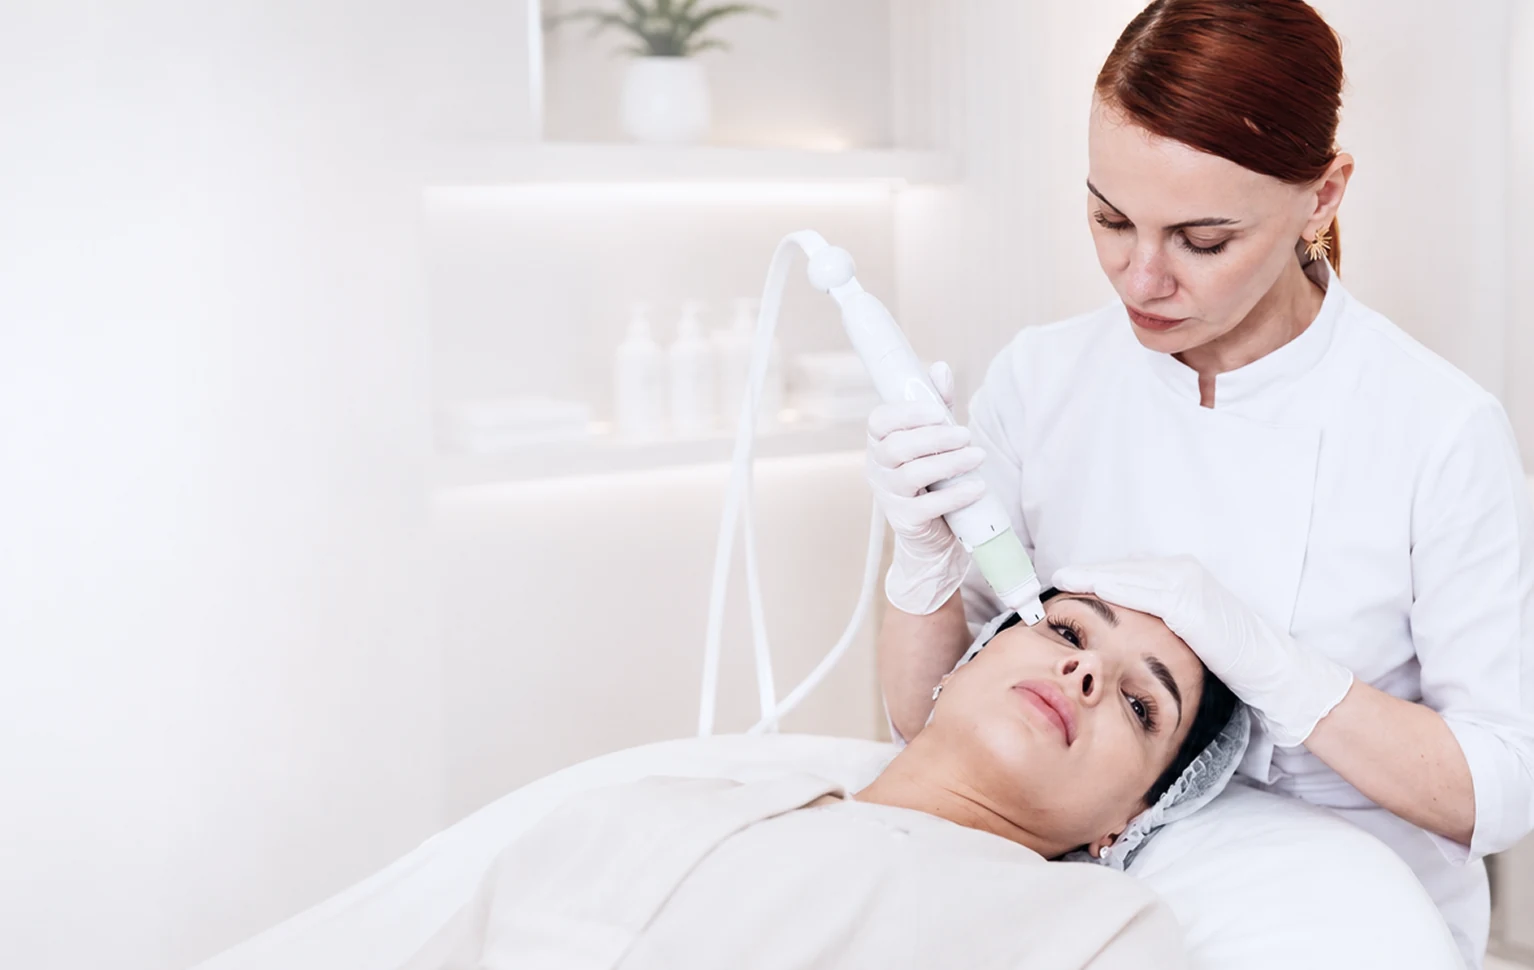
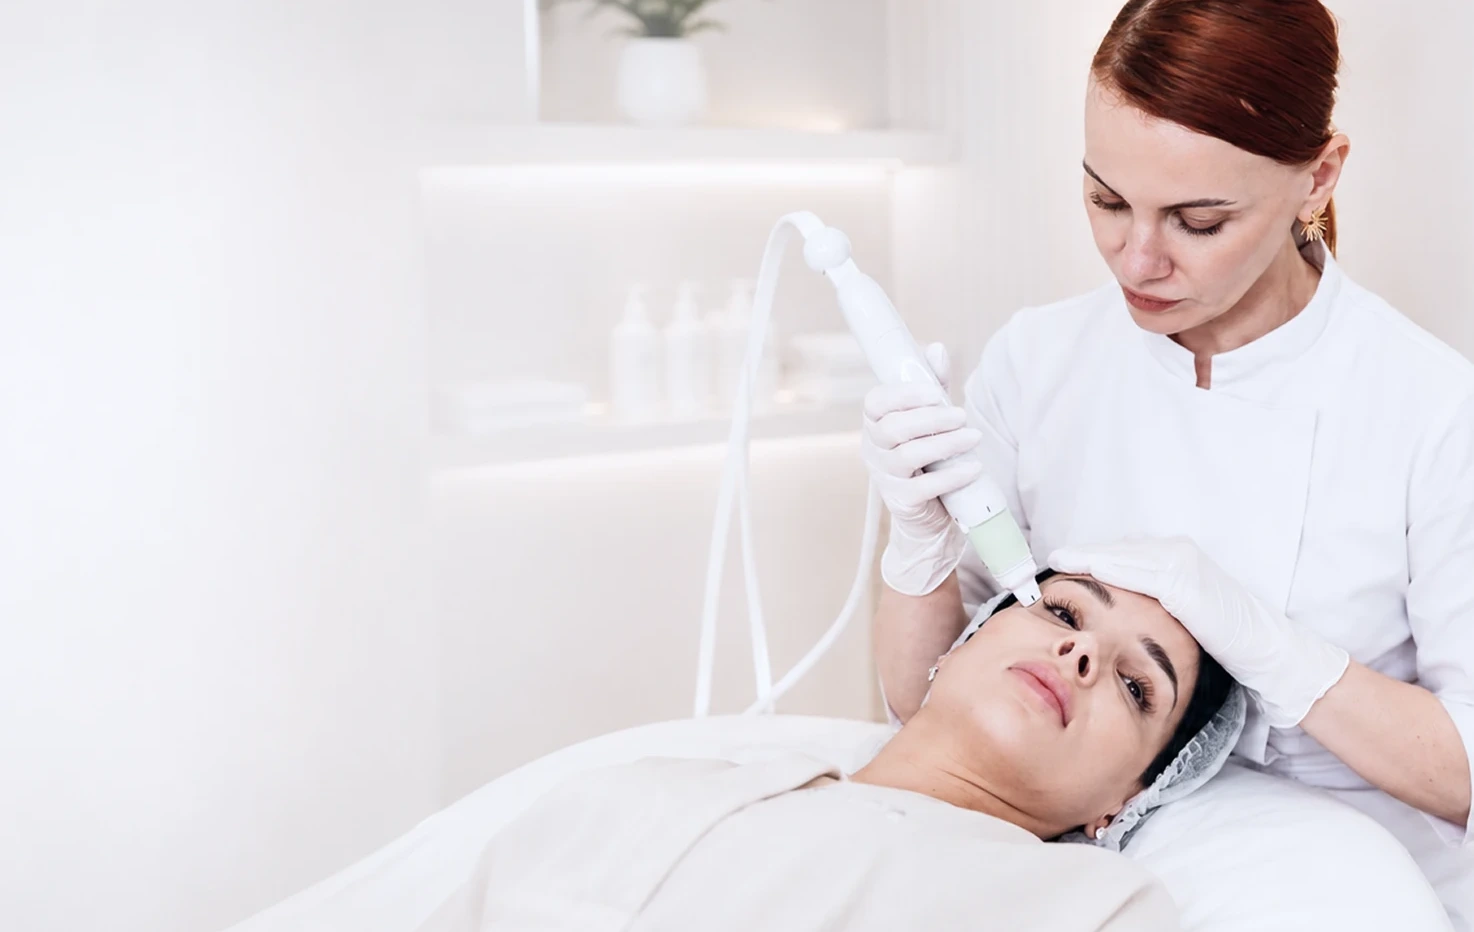
Fix wrong photo crops on SMAS/RF-lifting promo tiles, use dedicated mobile photos for other-promos cards

diff --git a/promos/smas-lifting.html b/promos/smas-lifting.html
@@ -212,7 +212,7 @@
     <h2>Другие действующие акции</h2>
     <div class="mh-promo-others__list">
       <a href="laser-new-client.html" class="mh-promo-others__card">
-        <img src="../assets/photos/promo-card-epilation.webp" alt="Скидка на лазерную эпиляцию для новых клиентов"/>
+        <img src="../assets/photos/mh-promo-others-laser.webp" alt="Скидка на лазерную эпиляцию для новых клиентов"/>
         <div class="mh-promo-others__panel">
           <div class="mh-promo-others__head">
             <p class="mh-promo-others__title">Скидка на лазерную эпиляцию для новых клиентов</p>
@@ -225,7 +225,7 @@
         </div>
       </a>
       <a href="rf-lifting.html" class="mh-promo-others__card">
-        <img src="../assets/photos/promo-card-rf-lifting.webp" alt="Монополярный РФ-лифтинг со скидкой"/>
+        <img src="../assets/photos/mh-promo-others-rf.webp" alt="Монополярный РФ-лифтинг со скидкой"/>
         <div class="mh-promo-others__panel">
           <div class="mh-promo-others__head">
             <p class="mh-promo-others__title">Монополярный РФ-лифтинг со скидкой</p>

diff --git a/promos/rf-lifting.html b/promos/rf-lifting.html
@@ -212,7 +212,7 @@
     <h2>Другие действующие акции</h2>
     <div class="mh-promo-others__list">
       <a href="laser-new-client.html" class="mh-promo-others__card">
-        <img src="../assets/photos/promo-card-epilation.webp" alt="Скидка на лазерную эпиляцию для новых клиентов"/>
+        <img src="../assets/photos/mh-promo-others-laser.webp" alt="Скидка на лазерную эпиляцию для новых клиентов"/>
         <div class="mh-promo-others__panel">
           <div class="mh-promo-others__head">
             <p class="mh-promo-others__title">Скидка на лазерную эпиляцию для новых клиентов</p>
@@ -225,7 +225,7 @@
         </div>
       </a>
       <a href="smas-lifting.html" class="mh-promo-others__card">
-        <img src="../assets/photos/promo-card-smas.webp" alt="Скидка на СМАС от 500 линий"/>
+        <img src="../assets/photos/mh-promo-others-smas.webp" alt="Скидка на СМАС от 500 линий"/>
         <div class="mh-promo-others__panel">
           <div class="mh-promo-others__head">
             <p class="mh-promo-others__title">Скидка на СМАС от 500 линий</p>

diff --git a/promos/laser-new-client.html b/promos/laser-new-client.html
@@ -212,7 +212,7 @@
     <h2>Другие действующие акции</h2>
     <div class="mh-promo-others__list">
       <a href="smas-lifting.html" class="mh-promo-others__card">
-        <img src="../assets/photos/promo-card-smas.webp" alt="Скидка на СМАС от 500 линий"/>
+        <img src="../assets/photos/mh-promo-others-smas.webp" alt="Скидка на СМАС от 500 линий"/>
         <div class="mh-promo-others__panel">
           <div class="mh-promo-others__head">
             <p class="mh-promo-others__title">Скидка на СМАС от 500 линий</p>
@@ -225,7 +225,7 @@
         </div>
       </a>
       <a href="rf-lifting.html" class="mh-promo-others__card">
-        <img src="../assets/photos/promo-card-rf-lifting.webp" alt="Монополярный РФ-лифтинг со скидкой"/>
+        <img src="../assets/photos/mh-promo-others-rf.webp" alt="Монополярный РФ-лифтинг со скидкой"/>
         <div class="mh-promo-others__panel">
           <div class="mh-promo-others__head">
             <p class="mh-promo-others__title">Монополярный РФ-лифтинг со скидкой</p>
